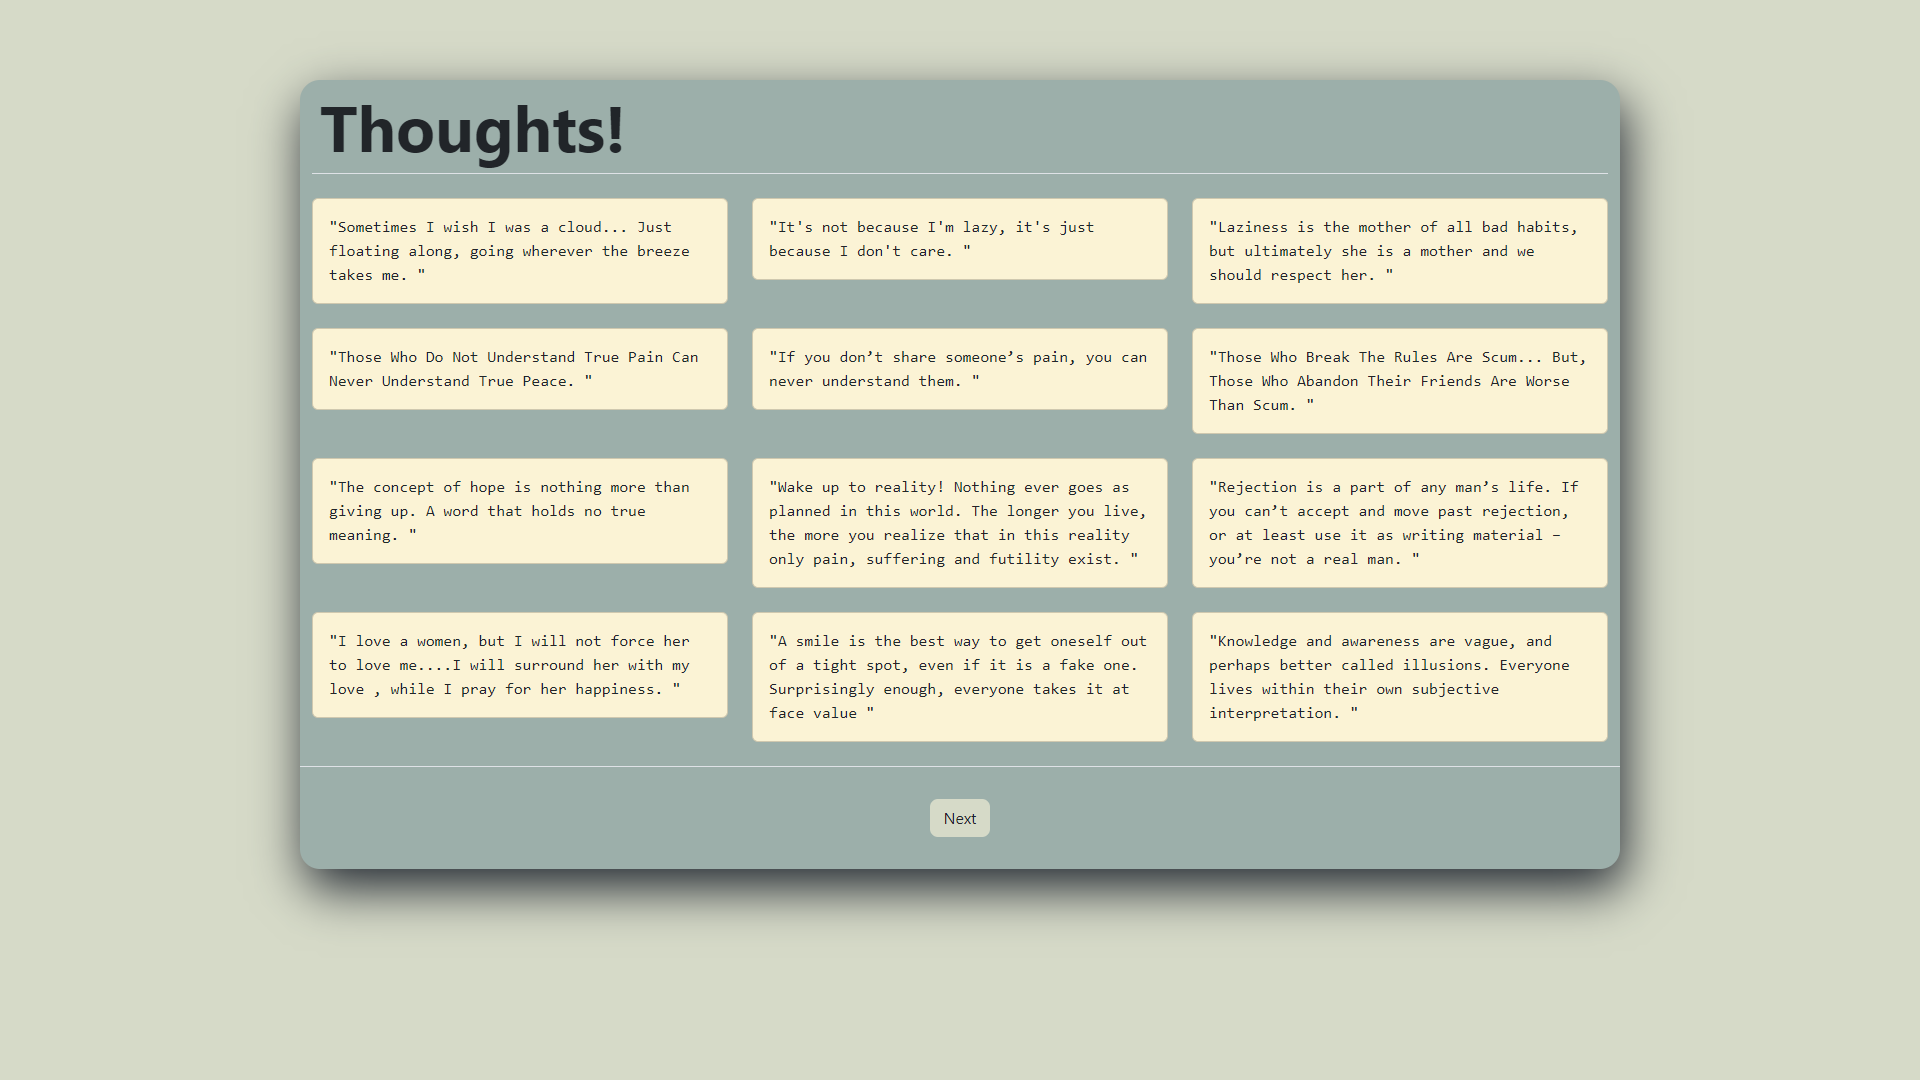
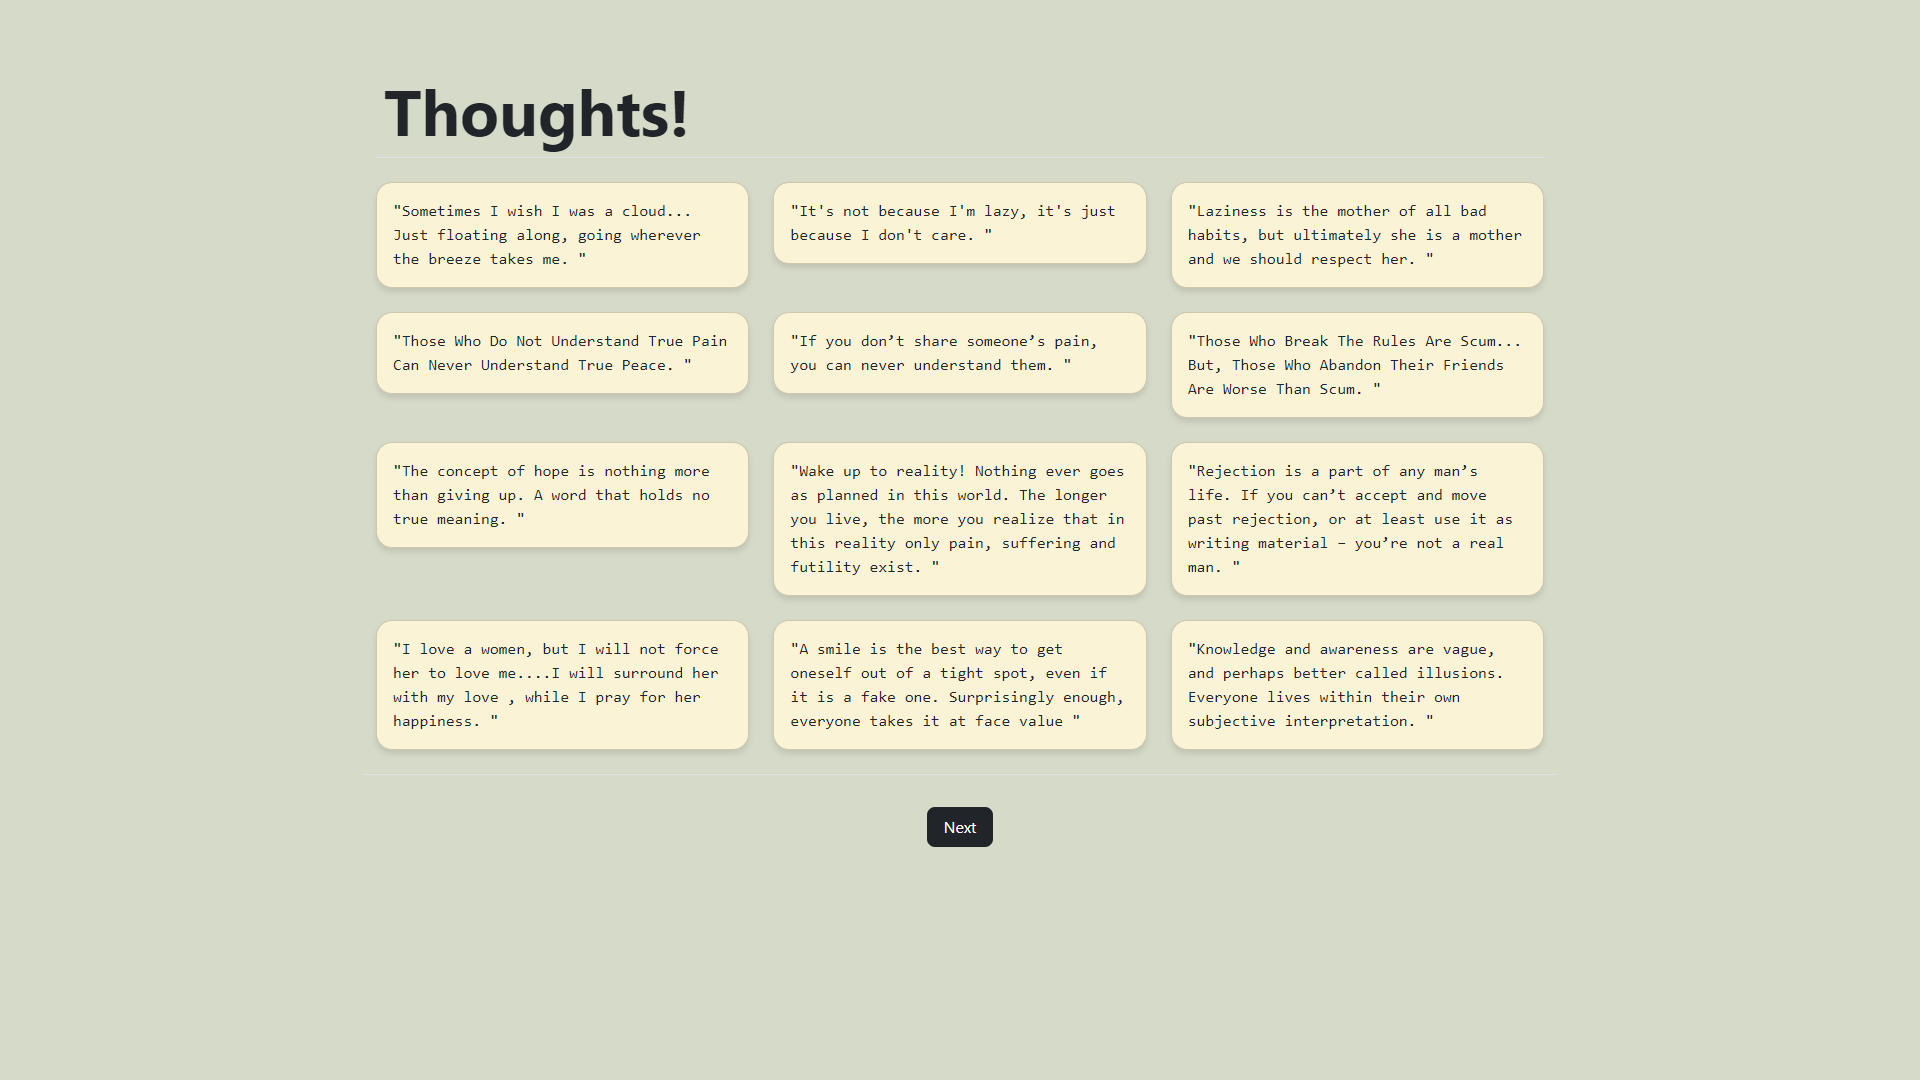
Thoughts: responsive layout and updated README.md

diff --git a/js/index.js b/js/index.js
@@ -8,12 +8,20 @@ async function fetchQuotesForPage(page) {
   const allQuotes = text.split("\n").filter((quote) => quote.trim() !== "");
   const startIndex = (page - 1) * pageSize;
   const endIndex = startIndex + pageSize;
-  return allQuotes.slice(startIndex, endIndex);
+  const quotesForPage = allQuotes.slice(startIndex, endIndex);
+  return { quotesForPage, totalQuotes: allQuotes.length };
 }
 
 // Function to display quotes for the current page
 async function displayQuotesForPage() {
-  const quotesForPage = await fetchQuotesForPage(currentPage);
+  const { quotesForPage, totalQuotes } = await fetchQuotesForPage(currentPage);
+  if (quotesForPage.length === 0 && currentPage > 1) {
+    // If no quotes are available and not on the first page, go back to page 1
+    currentPage = 1;
+    await displayQuotesForPage();
+    return;
+  }
+
   const quoteGrid = document.getElementById("quoteGrid");
   quoteGrid.innerHTML = ""; // Clear existing quotes
 
@@ -21,6 +29,8 @@ async function displayQuotesForPage() {
     const quoteElement = createQuoteElement(quote);
     quoteGrid.appendChild(quoteElement);
   });
+
+  updatePaginationButtons(totalQuotes);
 }
 
 // Function to create a quote element
@@ -28,7 +38,7 @@ function createQuoteElement(quote) {
   const quoteElement = document.createElement("div");
   quoteElement.classList.add("col-md-4", "mb-4");
   quoteElement.innerHTML = `
-    <div class="card rounded-2">
+    <div class="card rounded-4">
       <div class="card-body">
         <p class="card-text font-monospace">"${quote}"</p>
       </div>
@@ -49,7 +59,24 @@ function displayModal(quote) {
 // Function to load the next page of quotes
 async function loadNextPage() {
   currentPage++;
+  const { quotesForPage } = await fetchQuotesForPage(currentPage);
+  if (quotesForPage.length === 0) {
+    // Reset to page 1 if no quotes are available
+    currentPage = 1;
+  }
   await displayQuotesForPage();
+}
+
+// Function to update pagination buttons based on total quotes
+function updatePaginationButtons(totalQuotes) {
+  const nextButton = document.getElementById("nextButton");
+  const totalPages = Math.ceil(totalQuotes / pageSize);
+
+  if (currentPage >= totalPages) {
+    nextButton.disabled = true;
+  } else {
+    nextButton.disabled = false;
+  }
 }
 
 // Initial load
@@ -62,3 +89,6 @@ window.addEventListener("blur", () => {
 window.addEventListener("focus", () => {
   document.title = doctitle;
 });
+
+// Adding event listener to the next button
+document.getElementById("nextButton").addEventListener("click", loadNextPage);

diff --git a/index.html b/index.html
@@ -28,7 +28,7 @@
                 <div class="modal-content">
                     <div class="modal-header">
                         <h5 class="modal-title fs-5 fw-bold" id="quoteModalLabel">Today's Vichar</h5>
-                        <!-- <button type="button" class="btn-close" data-bs-dismiss="modal" aria-label="Close"></button> -->
+                        <button type="button" class="btn-close" data-bs-dismiss="modal" aria-label="Close"></button>
                     </div>
                     <div class="modal-body font-monospace text-center" id="quoteModalBody">
                         <!-- Quote text will be dynamically populated here -->
@@ -38,7 +38,7 @@
         </div>
 
         <div class="text-center">
-            <button class="btn rounded-3" id="nextButton" onclick="loadNextPage()">Next</button>
+            <button class="btn button btn-dark rounded-3" id="nextButton" onclick="loadNextPage()">Next</button>
         </div>
     </div>
 

diff --git a/css/index.css b/css/index.css
@@ -3,20 +3,23 @@ body {
 }
 
 .container {
-  background-color: #9cafaa;
+  width: 90%;
+  max-width: 1200px;
+  margin: 0 auto;
+  padding: 1rem;
   border-radius: 20px;
-  box-shadow: 5px 20px 50px #222831;
-  margin: 5rem auto;
 }
 
 .card {
+  border-radius: 10px;
+  background-color: #fbf3d5;
+  box-shadow: 0 4px 6px #0000001a;
   /* ease | ease-in | ease-out | linear */
   transition: transform ease-in-out 0.3s;
-  background-color: #fbf3d5;
 }
 
 .card:hover {
-  transform: scale(1.2);
+  transform: scale(1.05);
 }
 
 .modal {
@@ -31,8 +34,9 @@ body {
 }
 
 .btn {
-  background-color: #D6DAC8;
-  margin: 2rem;  
+  margin: 2rem;
+  padding: 0.5rem 1rem;
+  border: none;
 }
 
 /* Scrollbar */

diff --git a/README.md b/README.md
@@ -6,29 +6,26 @@ _Pagination -_
 
     let currentPage = 1;
     let pageSize = 12;
-    let quotes = [];
 
 _Change File Path -_
 
-    const response = await fetch("Your_file.pdf");
+    const response = await fetch("Your_file.txt");
 
 _Function to display quotes for the current page -_
 
     async function displayQuotesForPage() {
-    const quotesForPage = await fetchQuotesForPage(currentPage);
-    const quoteGrid = document.getElementById("quoteGrid");
-    quoteGrid.innerHTML = "";
-
-    quotesForPage.forEach((quote) => {
-    const quoteElement = createQuoteElement(quote);
-    quoteGrid.appendChild(quoteElement);
-     });
-    }
+      const { quotesForPage, totalQuotes } = await fetchQuotesForPage(currentPage);
+      if (quotesForPage.length === 0 && currentPage > 1) {
+        // If no quotes are available and not on the first page, go back to page 1
+        currentPage = 1;
+        await displayQuotesForPage();
+        return;
+      }
 
 _Function to create a quote element -_
 
     quoteElement.innerHTML = `
-    <div class="card rounded-2">
+    <div class="card rounded-4">
       <div class="card-body">
         <p class="card-text font-monospace">"${quote}"</p>
       </div>
@@ -38,17 +35,22 @@ _Function to create a quote element -_
 _Function to display modal with the clicked quote -_
 
     function displayModal(quote) {
-    const modalBody = document.getElementById("quoteModalBody");
-    modalBody.textContent = quote;
-    const modal = new bootstrap.Modal(document.getElementById("quoteModal"));
-    modal.show();
+      const modalBody = document.getElementById("quoteModalBody");
+      modalBody.textContent = quote;
+      const modal = new bootstrap.Modal(document.getElementById("quoteModal"));
+      modal.show();
     }
 
 _Function to load the next page of quotes -_
 
     async function loadNextPage() {
-    currentPage++;
-    await displayQuotesForPage();
+      currentPage++;
+      const { quotesForPage } = await fetchQuotesForPage(currentPage);
+      if (quotesForPage.length === 0) {
+        // Reset to page 1 if no quotes are available
+        currentPage = 1;
+      }
+      await displayQuotesForPage();
     }
 
 ---
